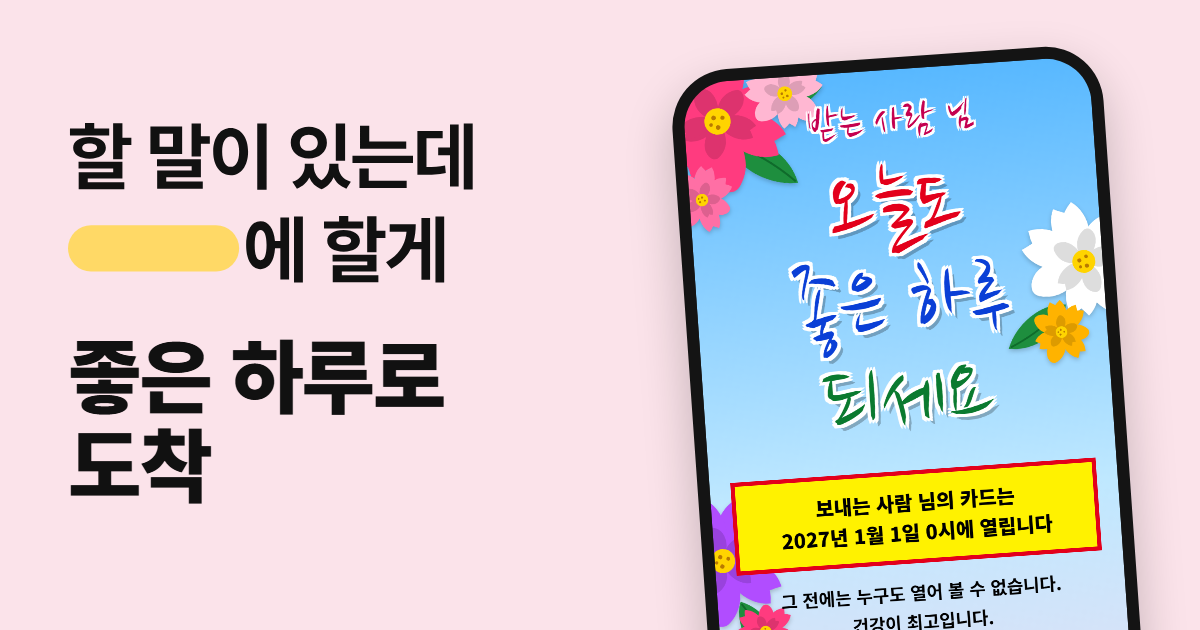
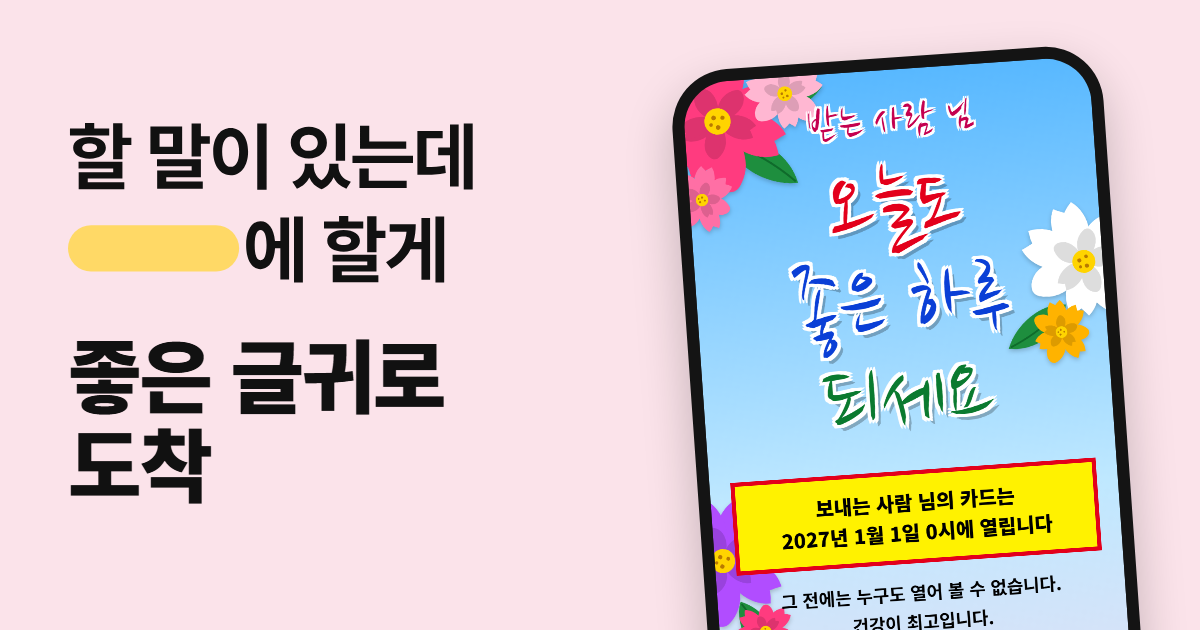
fix: greet OG 문구를 "좋은 글귀로 도착"으로
테마 칩 이름 "좋은 하루"는 그대로 두고 OG 문구만 바꾼다.
문구 형식 테스트는 OG 문구를 따로 지정한 테마를 예외로 둔다.

Changed region(s): [[0.185, 0.5429, 0.3083, 0.6635]]

diff --git a/src/lib/lib.test.ts b/src/lib/lib.test.ts
@@ -317,7 +317,13 @@ describe('링크 주소', () => {
     expect(themePages.map(({ id, name }) => ({ id, name }))).toEqual(THEMES.map((t) => ({ id: t.id, name: t.name })))
   })
 
-  it('OG 이미지 문구는 테마 이름 + "으로/로 도착"이다', () => {
-    for (const { name, og } of themePages) expect(og.label).toMatch(new RegExp(`^${name}(으로|로) 도착$`))
+  // OG 문구를 테마 이름과 다르게 따로 지정한 테마. 이 테마들은 "…으로/로 도착" 형식만 본다.
+  const CUSTOM_OG_LABEL = new Set(['greet'])
+
+  it('OG 이미지 문구는 테마 이름 + "으로/로 도착"이다 (따로 지정한 테마 제외)', () => {
+    for (const { id, name, og } of themePages) {
+      const subject = CUSTOM_OG_LABEL.has(id) ? '.+' : name
+      expect(og.label).toMatch(new RegExp(`^${subject}(으로|로) 도착$`))
+    }
   })
 })
